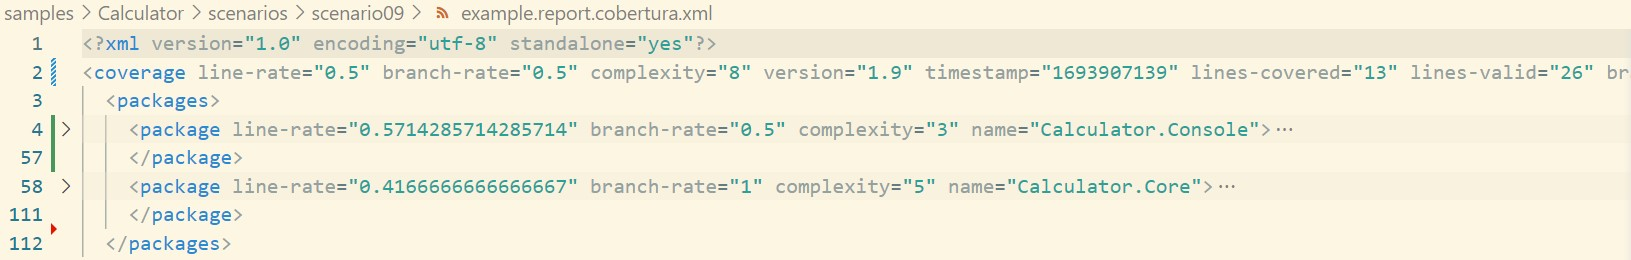
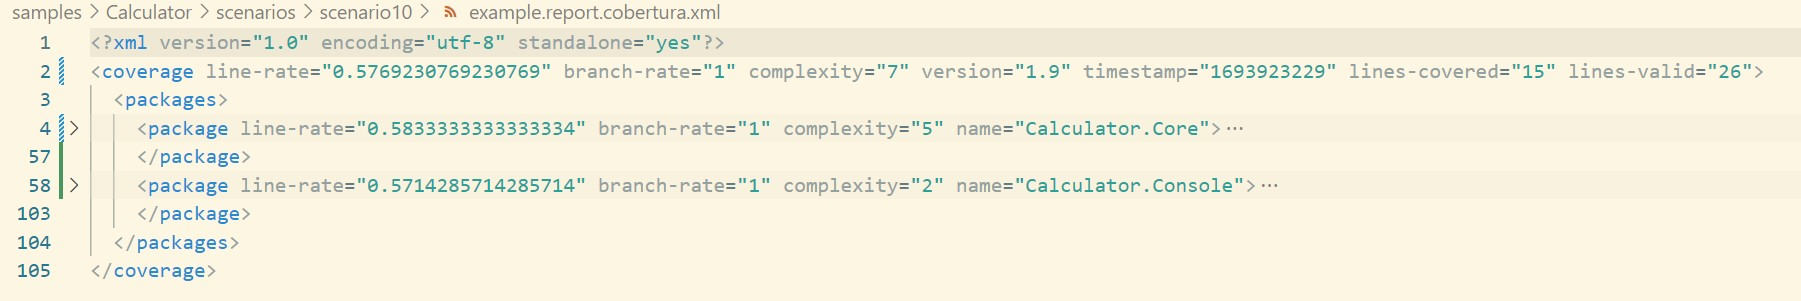
Scenario 10 done

diff --git a/samples/Calculator/scenarios/scenario10/README.md b/samples/Calculator/scenarios/scenario10/README.md
@@ -1,6 +1,6 @@
 # Scenario Description
 
-This example shows how our tool [dotnet-coverage](https://aka.ms/dotnet-coverage) can be used to collect code coverage for console application using [static instrumentation](../../../../docs/instrumentation.md). It is important to remember that files to be instrumented need to be specified using `--include-files`. When executing tests this is not needed as our tooling automatically detects directory with libraries and instrument it. Cobertura report format can be used to generate HTML report using [report generator](https://github.com/danielpalme/ReportGenerator). This format can be also used with [PublishCodeCoverageResults@2](https://learn.microsoft.com/en-us/azure/devops/pipelines/tasks/reference/publish-code-coverage-results-v2?view=azure-pipelines) in Azure DevOps pipelines.
+This example shows how our tool [dotnet-coverage](https://aka.ms/dotnet-coverage) can be used to collect code coverage for console application using [static instrumentation](../../../../docs/instrumentation.md). `dotnet-coverage` `instrument` command is used to instrument files and code coverage session is started in background. Similar sequence can be used for more advanced scenarios - for example IIS. When executing tests this is not needed as our tooling automatically detects directory with libraries and instrument it. Cobertura report format can be used to generate HTML report using [report generator](https://github.com/danielpalme/ReportGenerator). This format can be also used with [PublishCodeCoverageResults@2](https://learn.microsoft.com/en-us/azure/devops/pipelines/tasks/reference/publish-code-coverage-results-v2?view=azure-pipelines) in Azure DevOps pipelines.
 
 # Collect code coverage using command line
 
@@ -34,8 +34,18 @@ You can also use [run.ps1](run.ps1) to execute this scenario.
       run: dotnet build --no-restore
     - name: Install dotnet-coverage
       run: dotnet tool install -g dotnet-coverage
-    - name: Run
-      run: dotnet-coverage collect -s ../../scenarios/scenario09/coverage.runsettings --include-files "./bin/Debug/**/*.dll" -f cobertura -o $GITHUB_WORKSPACE/report.cobertura.xml "dotnet run --no-build add 10 24"
+    - name: Instrument Calculator.Core.dll
+      run: dotnet-coverage instrument --session-id TagScenario10 "./bin/Debug/net7.0/Calculator.Core.dll"
+    - name: Instrument Calculator.Console.dll
+      run: dotnet-coverage instrument --session-id TagScenario10 "./bin/Debug/net7.0/Calculator.Console.dll"
+    - name: Start code coverage collection session
+      run: dotnet-coverage collect --session-id TagScenario10 --server-mode --background -f cobertura -o $GITHUB_WORKSPACE/report.cobertura.xml
+    - name: Run (add)
+      run: dotnet run --no-build add 10 24
+    - name: Run (multiply)
+      run: dotnet run --no-build multiply 10 24
+    - name: Stop code coverage collection session
+      run: dotnet-coverage shutdown TagScenario10
     - name: ReportGenerator
       uses: danielpalme/ReportGenerator-GitHub-Action@5.1.24
       with:
@@ -94,7 +104,7 @@ steps:
 - task: Bash@3
   inputs:
     targetType: 'inline'
-    script: 'dotnet-coverage collect --session-id TagScenario10 --server-mode --background -f cobertura -o report.cobertura.xml"'
+    script: 'dotnet-coverage collect --session-id TagScenario10 --server-mode --background -f cobertura -o report.cobertura.xml'
   displayName: 'Start code coverage collection session'
 
 - task: DotNetCoreCLI@2
